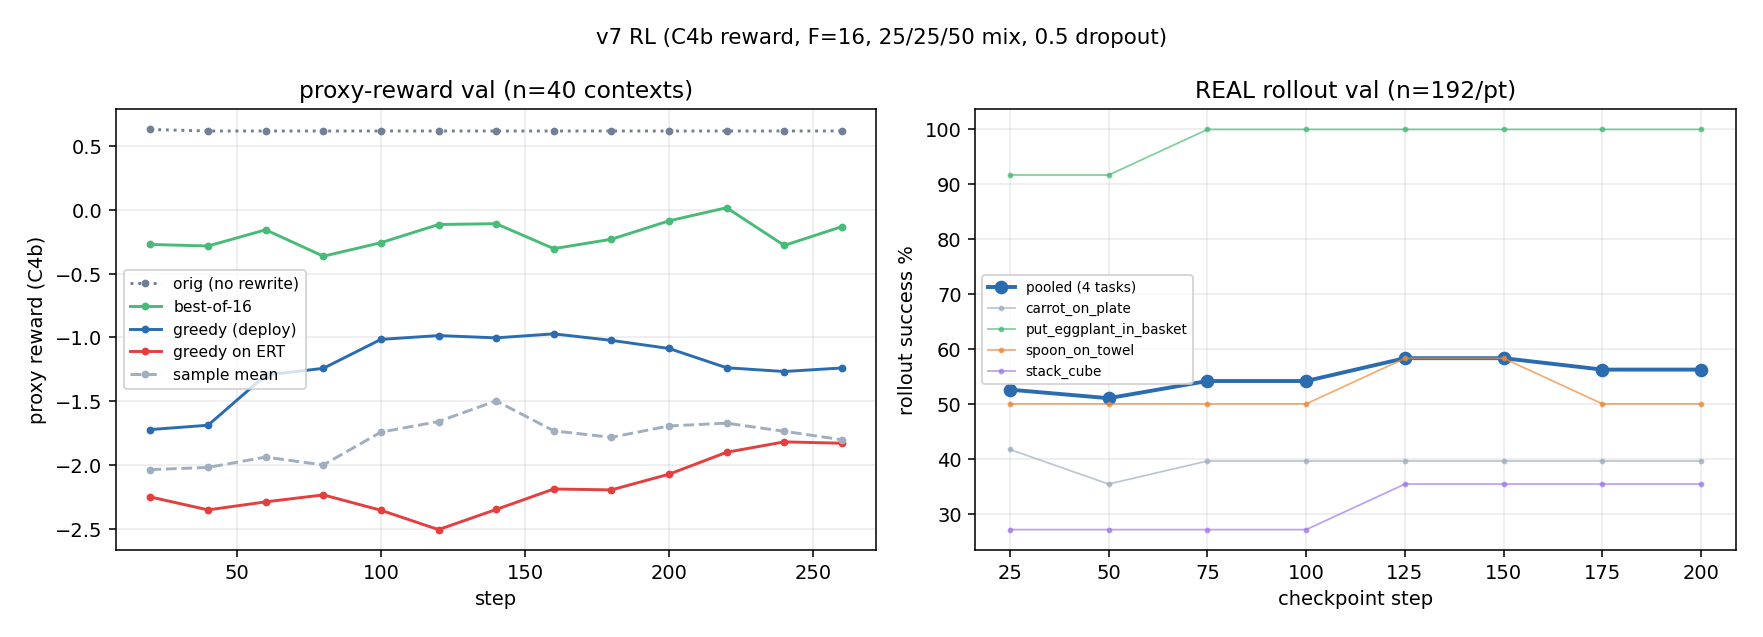
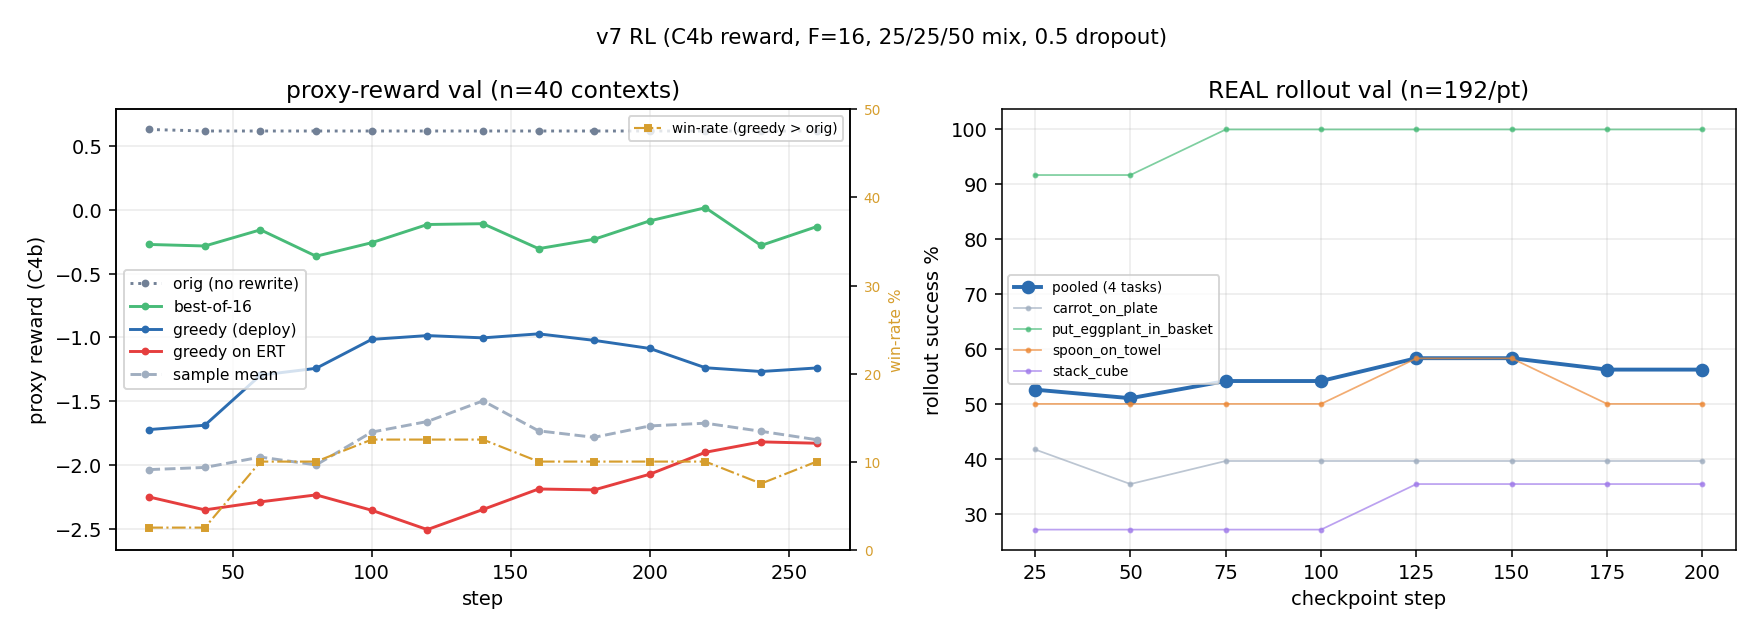
v7 chart: win-rate on twin axis

diff --git a/scripts/make_v7_progress.py b/scripts/make_v7_progress.py
@@ -37,6 +37,13 @@ for key, label, kw in [
     ("mean_reward", "sample mean", {"color": "#a0aec0", "ls": "--"}),
 ]:
     a1.plot(s, [v.get(key) for v in vals], marker="o", ms=3, label=label, **kw)
+aw = a1.twinx()
+aw.plot(s, [100 * v.get("greedy_win_rate", 0) for v in vals], marker="s", ms=3,
+        color="#d69e2e", lw=1.1, ls="-.", label="win-rate (greedy > orig)")
+aw.set_ylabel("win-rate %", color="#d69e2e", fontsize=8)
+aw.set_ylim(0, 50)
+aw.tick_params(axis="y", labelcolor="#d69e2e", labelsize=7)
+aw.legend(loc="upper right", fontsize=7)
 a1.set_xlabel("step")
 a1.set_ylabel("proxy reward (C4b)")
 a1.set_title("proxy-reward val (n=40 contexts)")
